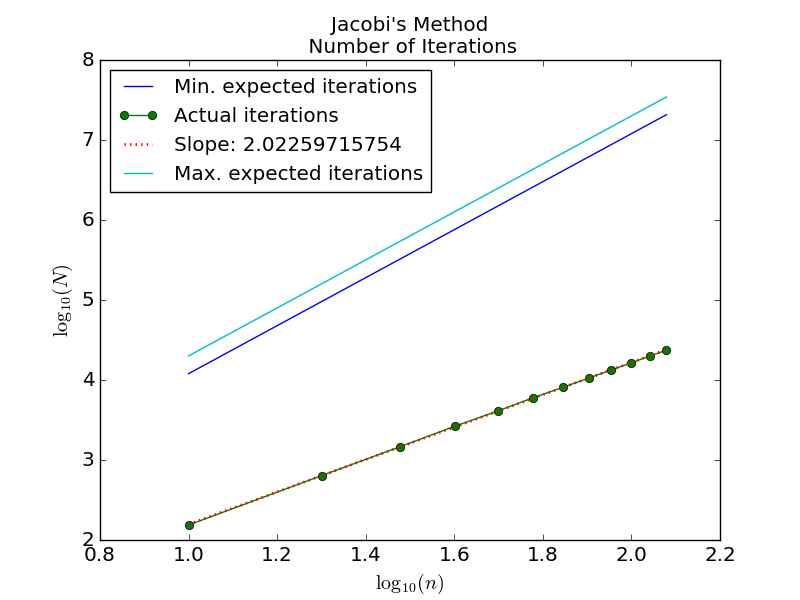
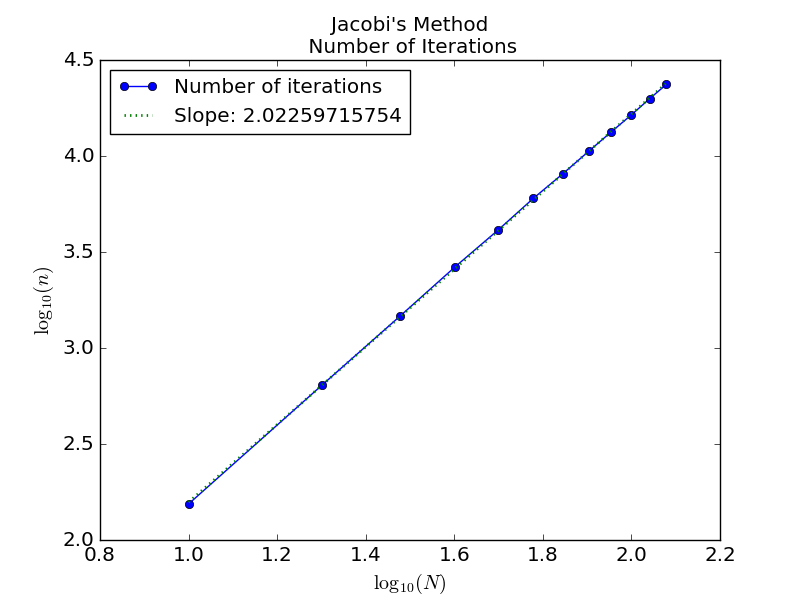
changes

diff --git a/Project2/bucklingBeam.cpp b/Project2/bucklingBeam.cpp
@@ -4,6 +4,7 @@
 #include <cmath>
 #include <armadillo>
 #include <fstream>
+#include <chrono>
 #include "jacobi.h"
 
 using namespace  std;
@@ -41,9 +42,18 @@ int main(int argc, char *argv[])
 		mat eigvec;           // Declare eigvec for storing eigenvectors
 
 		mat A = makeMatrix(d, a, N);
-		jacobiMethod(A, eigval, eigvec, N);
+
+		auto start = chrono::high_resolution_clock::now();
+		int iter = jacobiMethod(A, eigval, eigvec, N);
+		auto finish = chrono::high_resolution_clock::now();
+		chrono::duration<double> elapsed = finish - start;
+
 		vec ana_eigval = analyticalEigval(d, a, N);
 
+		cout << "Number of mesh points: " << N << endl;
+		cout << "Number of iterations: " << iter << endl;
+		cout << "Elapsed time (s): " << elapsed.count() << endl;
+		cout << "Eigenvalues:" << endl;
 		cout << "Numerical" << " " << "Analytical" << endl;
 		cout << eigval(0) << " " << ana_eigval(0) << endl;
 		cout << eigval(1) << " " << ana_eigval(1) << endl;

diff --git a/Project2/plot.py b/Project2/plot.py
@@ -51,8 +51,8 @@ if sys.argv[1] == "benchmark":
     plt.plot(n, iter, 'o-', label='Number of iterations')
     plt.plot(n, fit3(n), ":", lw=2, label='Slope: ' + str(slope3))
 
-    plt.gca().set_xlabel('$\\log_{10}(n)$')
-    plt.gca().set_ylabel('$\\log_{10}(N)$')
+    plt.gca().set_xlabel('$\\log_{10}(N)$')
+    plt.gca().set_ylabel('$\\log_{10}(n)$')
     plt.gca().set_title(title)
     plt.legend(loc='best')
     fig2.savefig("./Results/benchmark_iter.png")
